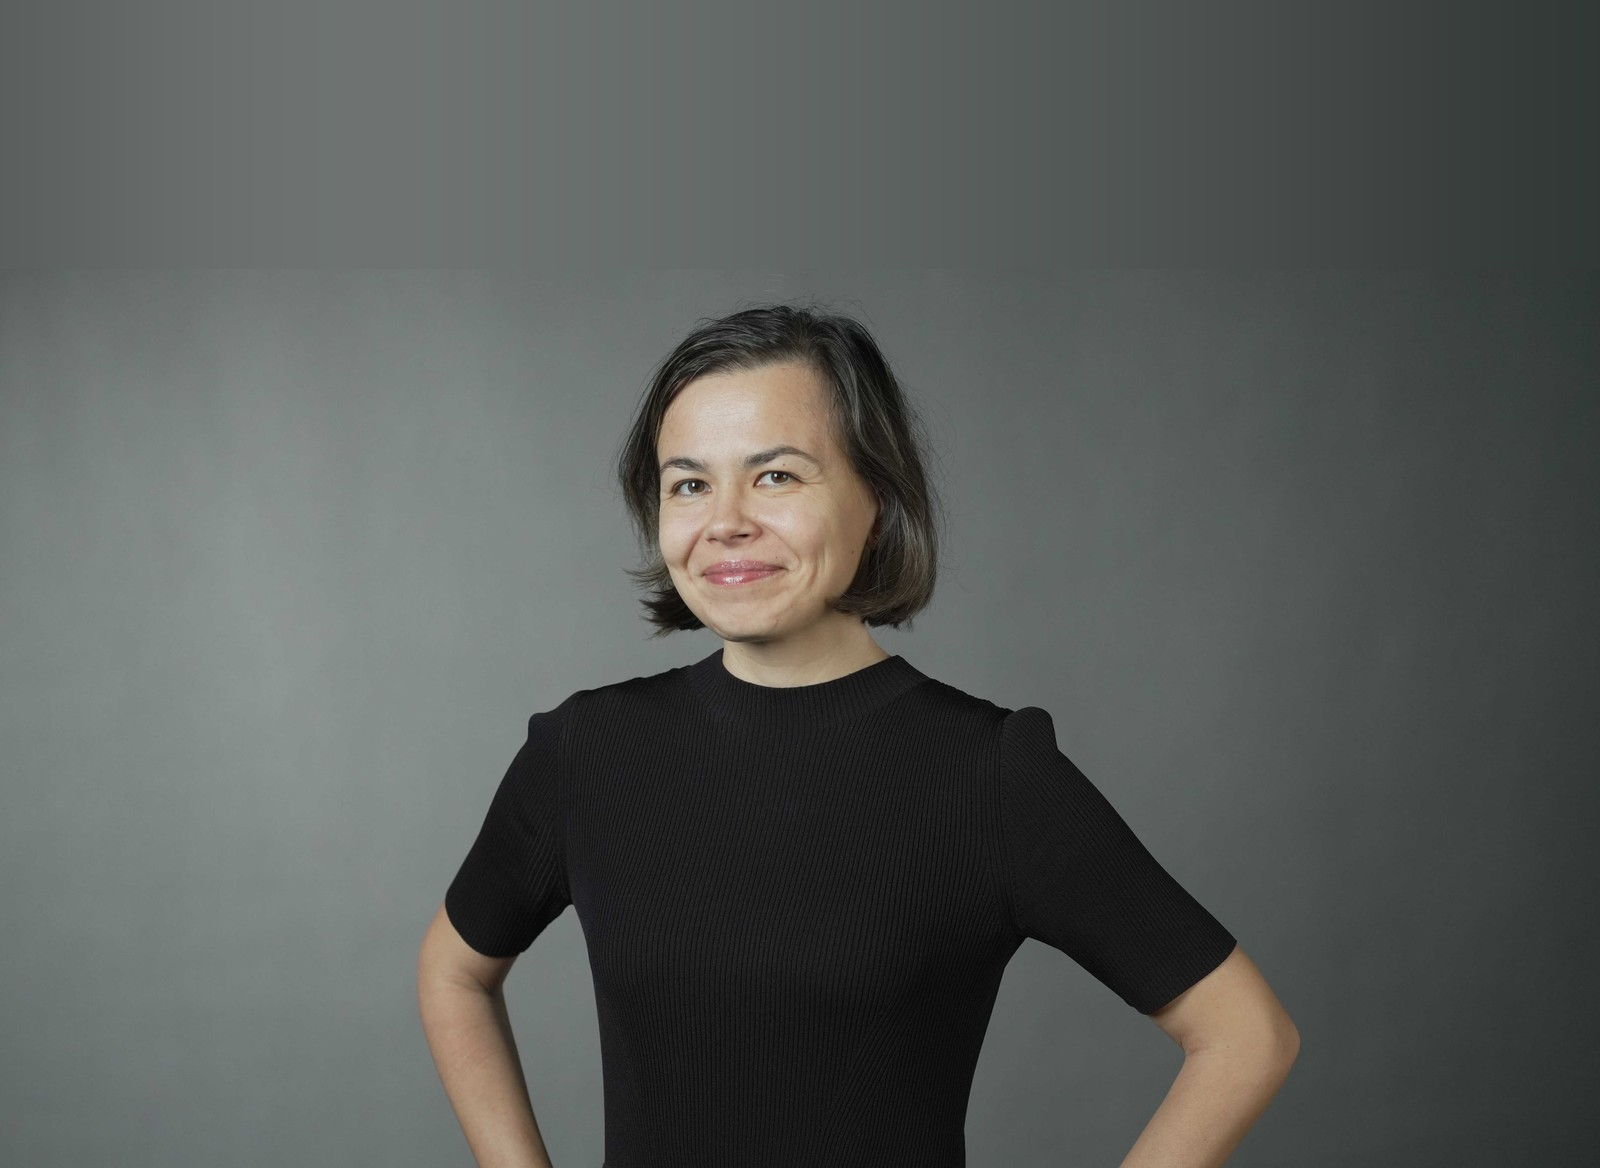
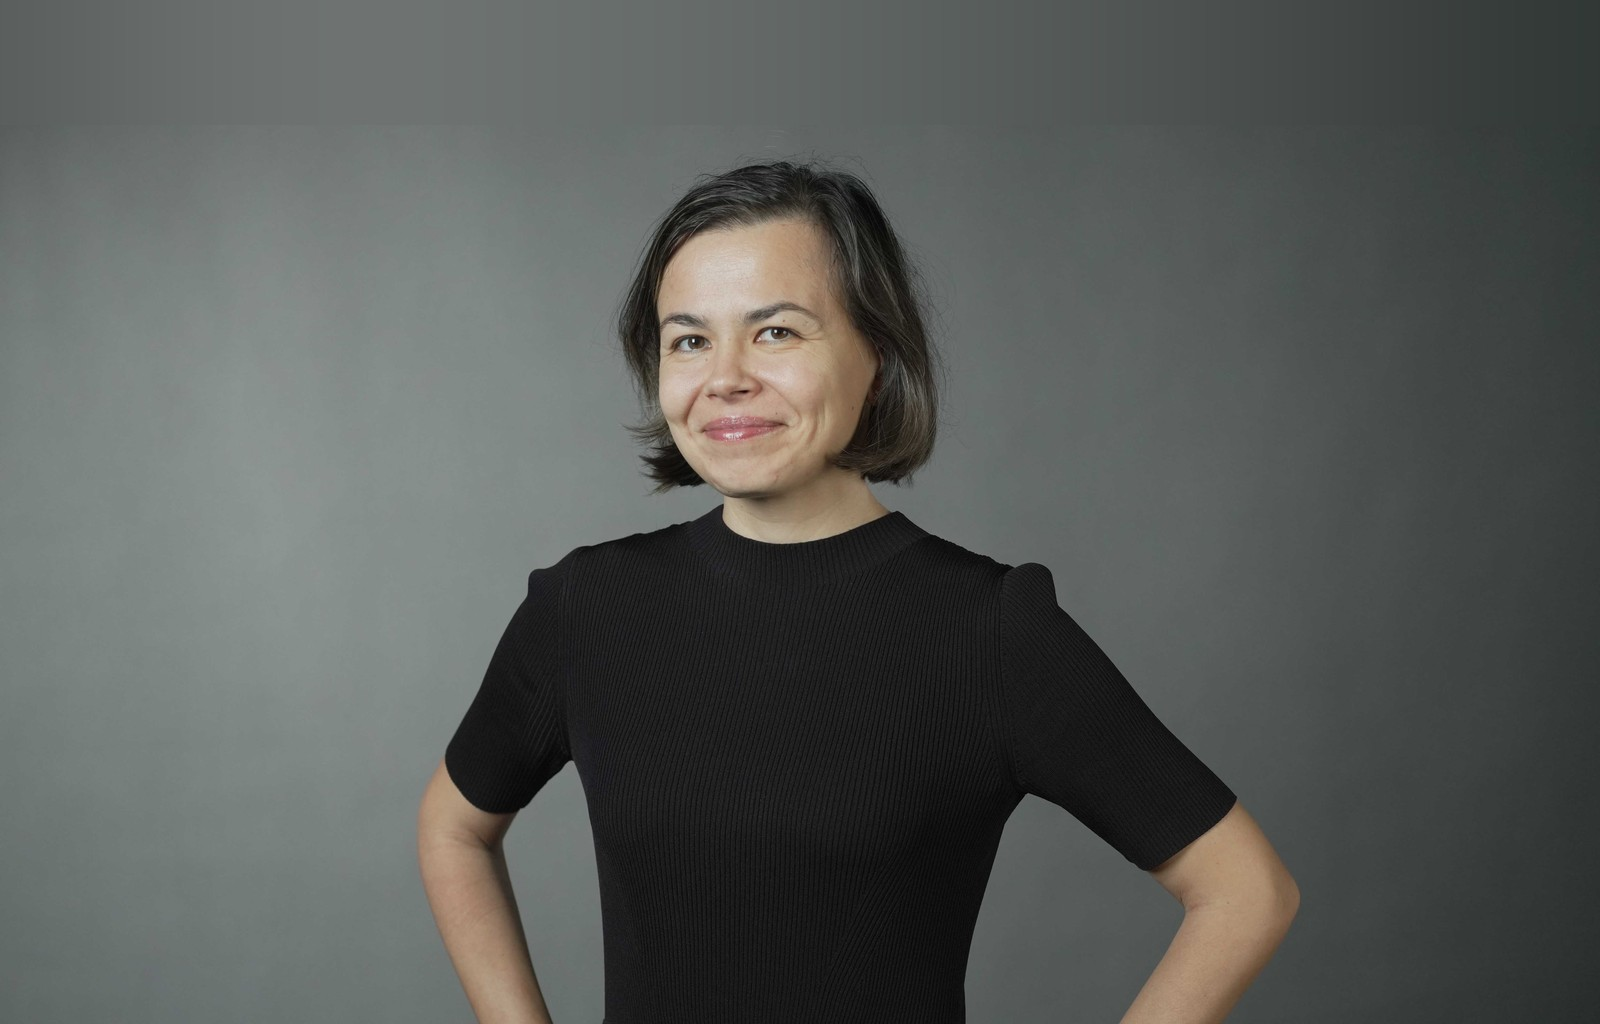
People cards: stand Sheldon's oval upright; zoom Anca, Yunwei and Olivia in slightly

Changed region(s): [[0.25, 0.1562, 0.8125, 0.9375], [0.5938, 0.8438, 0.625, 0.9062], [0.7812, 0.9062, 0.8125, 0.9375]]

diff --git a/assets/css/style.css b/assets/css/style.css
@@ -409,7 +409,7 @@ h1 {
 .person-card:nth-child(15n+4) img { clip-path: path("M 30.1 148.1 C 27.4 141.0, 25.5 134.0, 24.1 127.0 C 22.9 120.0, 22.0 113.1, 22.0 106.2 C 21.9 99.4, 22.5 92.6, 23.8 86.0 C 24.9 79.4, 26.6 72.8, 29.1 66.4 C 31.5 59.9, 34.6 53.6, 38.4 47.5 C 42.0 41.4, 46.4 35.4, 51.4 29.6 C 56.5 23.8, 62.1 17.2, 68.9 12.6 C 75.6 7.9, 84.0 3.0, 92.1 1.4 C 100.2 -0.1, 109.8 1.1, 117.8 3.4 C 125.8 5.8, 133.6 10.4, 140.2 15.2 C 147.0 20.0, 152.8 26.2, 157.6 32.2 C 162.6 38.4, 166.9 44.9, 170.2 51.6 C 173.6 58.2, 176.1 65.2, 178.0 72.2 C 179.9 79.2, 181.0 86.4, 181.2 93.5 C 181.5 100.5, 180.8 107.8, 179.5 114.6 C 178.2 121.5, 176.4 128.5, 173.6 135.0 C 170.9 141.5, 167.2 147.9, 163.1 153.8 C 158.9 159.6, 153.9 165.1, 148.4 170.1 C 142.9 175.1, 136.6 179.9, 129.8 183.8 C 123.0 187.6, 115.5 191.4, 107.5 193.6 C 99.6 195.9, 90.5 197.9, 82.1 197.2 C 73.8 196.5, 64.4 194.1, 57.4 189.6 C 50.5 185.0, 44.9 176.9, 40.4 170.0 C 35.9 163.1, 32.9 155.4, 30.1 148.1 Z"); }
 .person-card:nth-child(15n+5) img { clip-path: path("M 50.9 169.1 C 45.9 163.4, 41.6 157.4, 38.0 151.2 C 34.2 145.1, 31.2 139.0, 28.9 132.6 C 26.4 126.1, 24.8 119.6, 23.5 112.9 C 22.4 106.2, 21.8 99.5, 21.9 92.6 C 22.0 85.8, 22.8 78.8, 24.1 71.8 C 25.5 64.8, 27.5 57.6, 30.2 50.4 C 33.1 43.2, 36.1 35.2, 40.9 28.5 C 45.6 21.8, 51.8 14.2, 58.9 10.1 C 66.0 5.9, 75.2 3.8, 83.6 3.1 C 92.0 2.5, 101.0 4.2, 108.9 6.5 C 116.8 8.8, 124.2 12.6, 131.0 16.6 C 137.8 20.6, 144.0 25.4, 149.4 30.5 C 154.9 35.6, 159.8 41.2, 163.9 47.2 C 167.9 53.1, 171.4 59.5, 174.1 66.1 C 176.8 72.6, 178.6 79.6, 179.8 86.5 C 180.9 93.5, 181.5 100.6, 181.1 107.8 C 180.8 114.8, 179.6 122.0, 177.6 128.9 C 175.8 135.9, 173.0 142.8, 169.5 149.4 C 166.0 156.0, 161.8 162.5, 156.6 168.5 C 151.6 174.5, 145.8 180.6, 139.1 185.5 C 132.4 190.2, 124.5 195.2, 116.5 197.5 C 108.4 199.6, 98.8 200.6, 90.6 198.8 C 82.5 196.9, 74.5 191.1, 67.9 186.2 C 61.2 181.2, 55.8 175.0, 50.9 169.1 Z"); }
 .person-card:nth-child(15n+6) img { clip-path: path("M 171.5 54.5 C 174.0 61.8, 175.8 68.8, 176.8 75.9 C 177.9 82.9, 178.5 89.9, 178.1 96.6 C 178.0 103.5, 177.1 110.1, 175.8 116.8 C 174.2 123.4, 172.2 130.0, 169.5 136.2 C 166.9 142.6, 163.8 148.8, 159.8 154.8 C 155.8 160.8, 151.2 166.6, 145.9 172.1 C 140.6 177.9, 134.8 184.0, 127.9 188.5 C 120.9 192.9, 112.5 197.5, 104.2 198.8 C 96.0 200.0, 86.6 198.5, 78.6 195.9 C 70.8 193.2, 63.1 188.2, 56.6 183.2 C 50.1 178.1, 44.6 171.9, 39.9 165.5 C 35.1 159.2, 31.2 152.6, 28.0 145.9 C 24.9 138.9, 22.6 131.9, 21.1 124.8 C 19.4 117.9, 18.6 110.6, 18.6 103.5 C 18.6 96.5, 19.5 89.2, 21.1 82.5 C 22.6 75.5, 24.8 68.8, 27.9 62.2 C 30.8 56.0, 34.6 49.8, 38.9 44.0 C 43.4 38.2, 48.6 32.9, 54.2 28.1 C 60.0 23.2, 66.2 18.9, 73.4 15.2 C 80.2 11.5, 88.0 8.0, 96.0 6.1 C 104.0 4.1, 113.1 2.5, 121.4 3.5 C 129.9 4.5, 139.1 7.2, 145.9 12.0 C 152.6 16.8, 157.9 25.2, 162.1 32.2 C 166.5 39.2, 169.2 47.2, 171.5 54.5 Z"); }
-.person-card:nth-child(15n+7) img { clip-path: path("M 78.0 182.0 C 71.2 178.2, 65.2 174.1, 59.8 169.8 C 54.1 165.2, 49.1 160.5, 44.6 155.4 C 40.1 150.1, 36.1 144.6, 32.8 138.8 C 29.4 132.9, 26.5 126.8, 24.1 120.2 C 21.9 113.9, 20.1 107.1, 19.1 100.0 C 17.9 92.9, 17.2 85.5, 17.4 77.9 C 17.5 70.0, 17.5 61.5, 19.8 53.5 C 21.9 45.5, 24.9 36.5, 30.1 30.0 C 35.4 23.5, 43.4 18.2, 50.9 14.9 C 58.6 11.4, 67.5 10.0, 75.9 9.2 C 84.0 8.6, 92.2 9.8, 100.0 11.1 C 107.9 12.5, 115.2 14.8, 122.1 17.8 C 129.1 20.5, 135.5 24.1, 141.4 28.2 C 147.4 32.5, 152.9 37.2, 157.8 42.5 C 162.5 47.8, 166.6 53.5, 170.0 59.8 C 173.5 65.8, 176.6 72.2, 178.8 78.9 C 180.8 85.8, 182.2 92.9, 182.8 100.0 C 183.4 107.2, 183.2 114.8, 182.2 122.1 C 181.2 129.5, 179.5 137.1, 176.9 144.5 C 174.2 151.9, 170.9 159.8, 166.5 166.5 C 161.9 173.4, 156.1 180.8, 149.4 185.8 C 142.6 190.5, 133.9 194.8, 125.5 195.9 C 117.4 196.9, 107.9 194.2, 99.9 192.0 C 92.0 189.8, 84.6 185.8, 78.0 182.0 Z"); }
+.person-card:nth-child(15n+7) img { clip-path: path("M 33.7 152.9 C 30.5 146.0, 28.1 139.1, 26.2 132.2 C 24.4 125.3, 23.1 118.5, 22.6 111.7 C 22.0 104.9, 22.2 98.1, 23.0 91.3 C 23.7 84.6, 25.0 77.9, 26.9 71.3 C 28.9 64.8, 31.5 58.3, 34.8 51.9 C 38.1 45.5, 42.0 39.3, 46.6 33.1 C 51.3 27.0, 56.5 20.1, 62.9 15.0 C 69.3 9.8, 77.2 4.3, 85.2 2.2 C 93.3 0.1, 102.8 0.7, 111.0 2.4 C 119.1 4.1, 127.3 8.3, 134.3 12.6 C 141.3 16.9, 147.4 22.7, 152.8 28.4 C 158.2 34.1, 162.8 40.4, 166.7 46.8 C 170.5 53.2, 173.6 60.0, 175.9 66.9 C 178.2 73.7, 179.8 80.8, 180.6 87.8 C 181.3 94.9, 181.1 102.1, 180.4 109.0 C 179.6 116.0, 178.1 123.1, 175.8 129.7 C 173.6 136.4, 170.4 143.0, 166.7 149.2 C 162.9 155.3, 158.3 161.2, 153.1 166.6 C 148.0 172.0, 142.1 177.1, 135.6 181.5 C 129.0 185.9, 121.8 190.1, 114.0 192.9 C 106.3 195.7, 97.3 198.3, 89.0 198.2 C 80.6 198.1, 71.0 196.4, 63.8 192.3 C 56.5 188.3, 50.4 180.6, 45.4 174.0 C 40.4 167.4, 36.9 159.9, 33.7 152.9 Z"); }
 .person-card:nth-child(15n+8) img { clip-path: path("M 60.9 24.6 C 68.2 22.9, 75.5 21.9, 82.6 21.4 C 89.8 20.9, 96.8 21.1, 103.5 21.9 C 110.2 22.6, 116.9 24.0, 123.4 26.1 C 129.9 28.1, 136.1 30.6, 142.1 33.9 C 148.2 37.1, 154.1 40.9, 159.9 45.4 C 165.4 49.9, 170.8 54.8, 176.0 60.6 C 181.1 66.2, 186.8 72.8, 190.6 80.0 C 194.5 87.4, 198.2 96.1, 198.8 104.5 C 199.4 112.6, 196.9 122.0, 193.8 129.8 C 190.2 137.4, 184.8 144.5, 179.1 150.5 C 173.5 156.5, 166.6 161.5, 160.0 165.8 C 153.4 169.9, 146.2 173.1, 139.2 175.8 C 132.2 178.1, 124.9 179.9, 117.9 180.9 C 110.6 181.9, 103.4 182.0, 96.2 181.4 C 89.4 180.8, 82.2 179.2, 75.5 177.1 C 68.9 174.9, 62.2 172.1, 56.1 168.6 C 50.0 165.1, 44.1 160.8, 38.9 155.9 C 33.5 151.1, 28.6 145.4, 24.2 139.2 C 20.1 133.1, 16.2 126.5, 13.2 119.2 C 10.1 111.9, 7.4 104.0, 6.1 95.9 C 4.9 87.8, 4.0 78.2, 5.8 70.1 C 7.5 62.0, 11.1 52.9, 16.5 46.6 C 21.8 40.2, 30.5 35.9, 38.0 32.1 C 45.4 28.5, 53.4 26.5, 60.9 24.6 Z"); }
 .person-card:nth-child(15n+9) img { clip-path: path("M 179.8 129.1 C 175.4 135.5, 170.8 141.1, 165.9 146.2 C 160.9 151.4, 155.9 156.0, 150.2 160.0 C 144.8 164.0, 138.8 167.4, 132.6 170.2 C 126.6 173.2, 120.1 175.5, 113.5 177.2 C 106.9 179.1, 100.0 180.1, 92.9 180.6 C 85.8 181.2, 78.2 181.2, 70.6 180.2 C 62.9 179.5, 54.5 178.8, 46.8 175.9 C 38.9 173.1, 30.1 169.2, 24.1 163.5 C 18.1 157.8, 13.8 149.2, 10.9 141.4 C 8.1 133.5, 7.4 124.5, 7.5 116.1 C 7.5 108.0, 9.4 99.8, 11.4 92.1 C 13.4 84.6, 16.5 77.4, 19.9 70.8 C 23.4 64.1, 27.5 58.0, 32.1 52.5 C 36.9 46.9, 42.1 41.9, 47.8 37.5 C 53.4 33.2, 59.5 29.8, 65.9 26.6 C 72.2 23.8, 79.1 21.2, 86.0 19.8 C 92.8 18.2, 100.1 17.4, 107.4 17.5 C 114.5 17.5, 122.0 18.2, 129.2 20.0 C 136.5 21.5, 144.0 24.0, 151.1 27.2 C 158.1 30.5, 165.8 34.5, 172.0 39.8 C 178.5 44.9, 185.4 51.1, 189.8 58.2 C 193.9 65.5, 197.4 74.6, 197.8 82.9 C 198.0 91.2, 194.6 100.5, 191.5 108.1 C 188.6 115.9, 184.0 122.8, 179.8 129.1 Z"); }
 .person-card:nth-child(15n+10) img { clip-path: path("M 21.5 132.2 C 20.5 124.8, 20.0 117.5, 20.1 110.5 C 20.2 103.2, 21.1 96.2, 22.5 89.8 C 23.8 82.9, 25.9 76.5, 28.5 70.2 C 30.9 64.0, 34.0 57.9, 37.9 52.1 C 41.5 46.5, 45.9 40.9, 50.8 35.8 C 55.8 30.5, 61.1 25.5, 67.4 20.9 C 73.5 16.2, 80.5 11.2, 88.0 8.0 C 95.8 4.9, 104.8 1.8, 113.1 2.0 C 121.4 2.1, 130.2 5.4, 137.8 9.2 C 145.1 13.2, 151.8 19.5, 157.2 25.5 C 162.8 31.8, 167.1 38.9, 170.6 46.0 C 174.2 52.9, 176.9 60.2, 178.8 67.5 C 180.8 74.6, 181.9 82.1, 182.1 89.2 C 182.5 96.5, 182.0 103.9, 180.8 110.8 C 179.5 117.8, 177.4 124.6, 174.6 131.1 C 172.0 137.5, 168.6 143.9, 164.6 149.8 C 160.5 155.4, 155.8 160.9, 150.2 165.9 C 145.1 170.6, 138.9 175.1, 132.5 178.8 C 126.0 182.5, 118.9 185.8, 111.5 188.1 C 104.0 190.6, 95.9 192.6, 87.8 193.2 C 79.4 193.8, 70.0 193.8, 62.0 191.2 C 54.0 188.9, 45.4 184.5, 39.5 178.6 C 33.8 172.8, 30.0 163.5, 26.9 155.9 C 24.0 148.1, 22.6 140.0, 21.5 132.2 Z"); }
